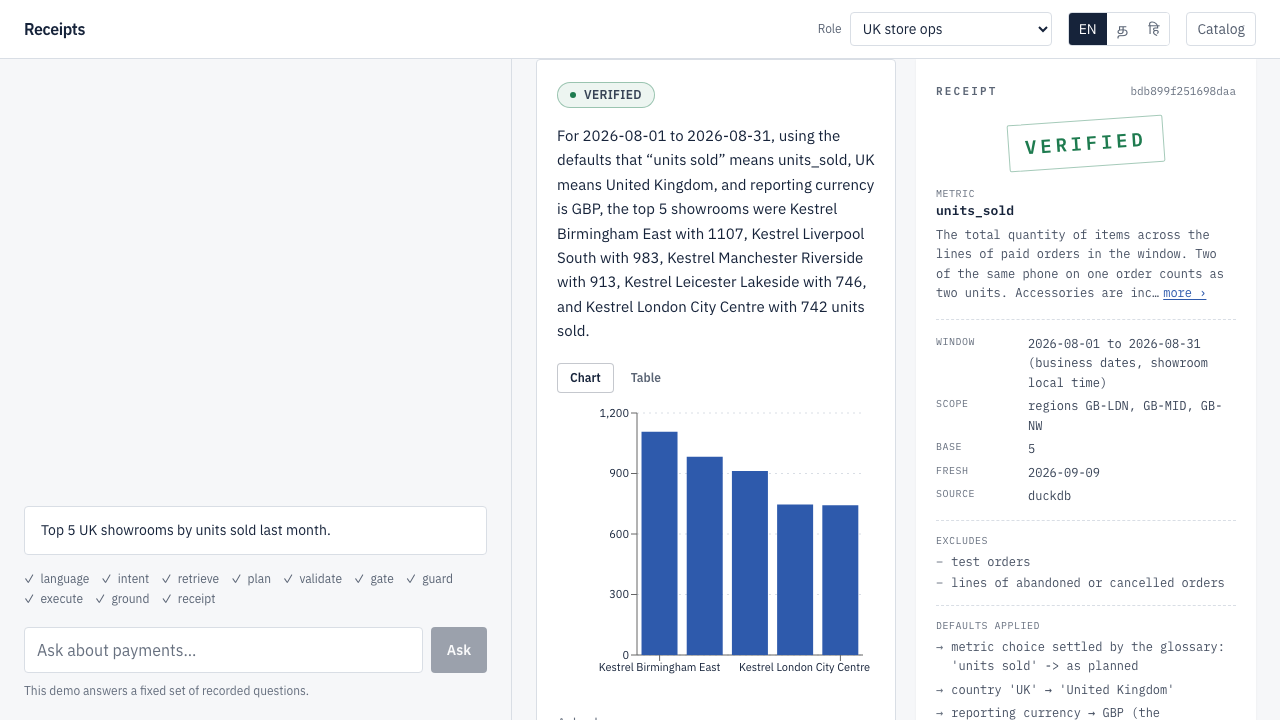
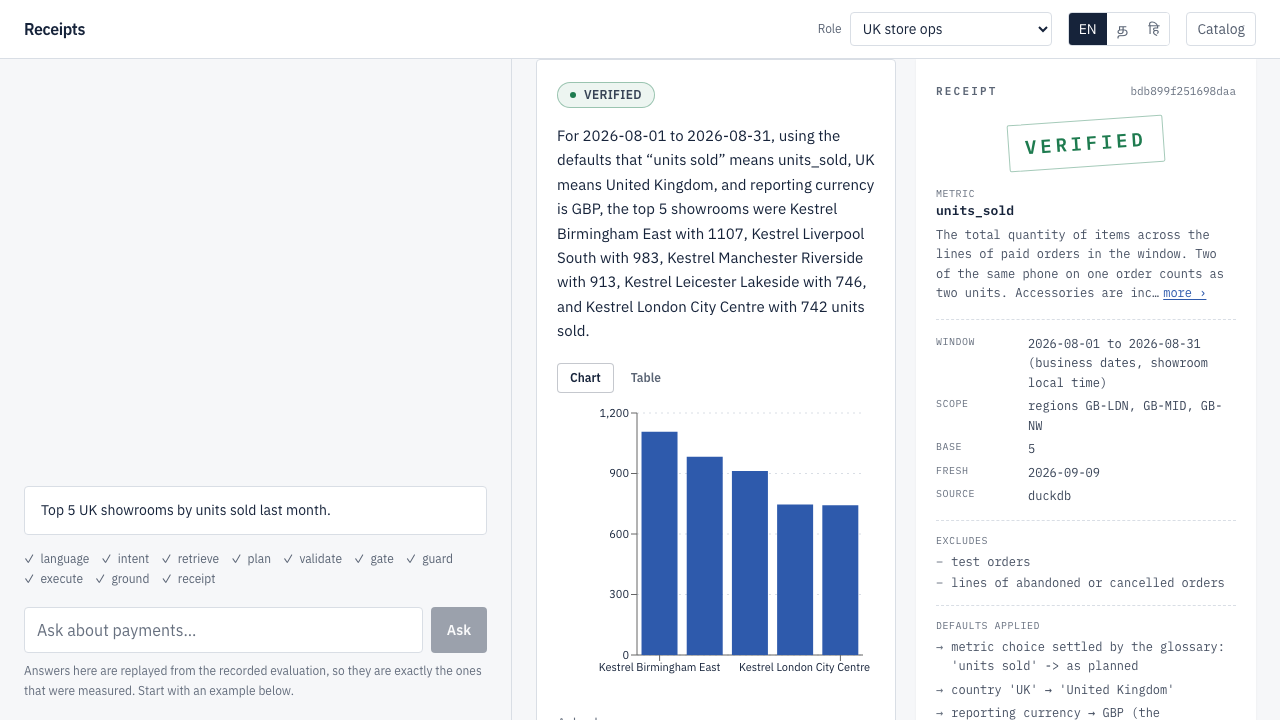
fix(M20): the error named a way out and then hid it
Three demo changes, and the third turned out to be a real defect rather than a
copy edit.

The 503 for an unrecorded question said "Try one of the examples" — and the
examples are an empty state that disappears once a question has been asked. So
a first-time visitor who typed their own question before noticing the
suggestions reached a dead end that **named its own exit and withheld it**. The
one thing the error told them to do was the one thing not on screen.

Examples now come back on a failure. The way out is always visible wherever a
dead end is reachable.

The other two:

- The replay note leads with what is true rather than with what is missing:
  "Answers here are replayed from the recorded evaluation, so they are exactly
  the ones that were measured." That is the project's argument, not an apology.
- The 503 opens "Nothing is broken" and says why, then points at the examples
  and at the catalog — which runs any metric with no model in the path at all.

The note is split in two, because "Start with an example below" is only true
while examples are below. Shown with them, gone without them: a note pointing
below itself at nothing is a small lie about its own page.

Guarded end to end: type an unrecorded question, assert the error explains
itself, assert the examples are visible, click one, assert a VERIFIED answer
with a receipt. Reverting the one-line fix makes it fail. The screenshot spec
now waits out the rate limiter too — it runs after the journeys, and a
[…]

Changed region(s): [[0.0, 0.7028, 0.4062, 0.9778]]

diff --git a/web/src/i18n.ts b/web/src/i18n.ts
@@ -14,6 +14,7 @@ export interface Copy {
   readonly emptyTitle: string;
   readonly emptyBody: string;
   readonly recordedNote: string;
+  readonly startWithExample: string;
   readonly thinking: string;
   readonly chart: string;
   readonly table: string;
@@ -62,7 +63,8 @@ const EN: Copy = {
   emptyTitle: "Ask a question about payments.",
   emptyBody: "Every answer comes with a receipt saying where the number came from.",
   recordedNote:
-    "This demo answers a fixed set of recorded questions.",
+    "Answers here are replayed from the recorded evaluation, so they are exactly the ones that were measured.",
+  startWithExample: "Start with an example below.",
   thinking: "Working",
   chart: "Chart",
   table: "Table",
@@ -100,7 +102,7 @@ const EN: Copy = {
   },
   errors: {
     MODEL_UNAVAILABLE:
-      "This demo answers a fixed set of recorded questions, and this one is not among them. Try one of the examples, or open the catalog to run a metric directly.",
+      "Nothing is broken — this question just was not part of the recorded evaluation, so there is no recorded answer to replay. The examples below are, and every one of them works. You can also open the catalog to run any metric directly, with no model involved at all.",
     RATE_LIMITED: "That is more questions than the demo allows in a minute.",
     DB_TIMEOUT: "The warehouse took too long. Ask again, or narrow the window.",
     DB_UNAVAILABLE: "The warehouse is not answering. Nothing was run.",
@@ -131,7 +133,8 @@ const TA: Copy = {
   emptyTitle: "Payments பற்றி ஒரு கேள்வி கேளுங்கள்.",
   emptyBody: "ஒவ்வொரு பதிலுடனும், அந்த எண் எங்கிருந்து வந்தது என்று சொல்லும் ஒரு receipt வரும்.",
   recordedNote:
-    "இந்த demo, பதிவு செய்யப்பட்ட குறிப்பிட்ட கேள்விகளுக்கு மட்டுமே பதிலளிக்கும்.",
+    "இங்குள்ள பதில்கள் பதிவு செய்யப்பட்ட மதிப்பீட்டிலிருந்து replay செய்யப்படுகின்றன — அளவிடப்பட்ட அதே பதில்கள்.",
+  startWithExample: "கீழே உள்ள எடுத்துக்காட்டு ஒன்றில் தொடங்குங்கள்.",
   thinking: "வேலை நடக்கிறது",
   chart: "விளக்கப்படம்",
   table: "அட்டவணை",
@@ -180,7 +183,8 @@ const HI: Copy = {
   emptyTitle: "भुगतान के बारे में एक सवाल पूछें।",
   emptyBody: "हर जवाब के साथ एक receipt आती है जो बताती है कि यह संख्या कहाँ से आई।",
   recordedNote:
-    "यह demo रिकॉर्ड किए गए सवालों के एक निश्चित सेट का ही जवाब देता है।",
+    "यहाँ के जवाब रिकॉर्ड किए गए मूल्यांकन से replay होते हैं — वही जवाब जो मापे गए थे।",
+  startWithExample: "नीचे दिए किसी उदाहरण से शुरू करें।",
   thinking: "काम चल रहा है",
   chart: "चार्ट",
   table: "तालिका",

diff --git a/web/e2e/journeys.spec.ts b/web/e2e/journeys.spec.ts
@@ -159,6 +159,60 @@ test.describe("PDD §8.3", () => {
   });
 });
 
+test.describe("a first-time visitor is never at a dead end", () => {
+  test("an unrecorded question explains itself and the way out is on screen", async ({
+    page,
+  }) => {
+    await open(page, "rm_tamil_nadu");
+
+    // Exactly what a reviewer does: type their own question before noticing
+    // the examples. Nothing recorded this, so it cannot be answered.
+    await page.getByTestId("question-input").fill("what is the airspeed of a swallow");
+    await page.getByTestId("ask-button").click();
+
+    const failure = page.getByTestId("answer-error");
+    await expect(failure).toBeVisible({ timeout: 40_000 });
+    await expect(failure).toHaveAttribute("data-code", "MODEL_UNAVAILABLE");
+
+    // It says nothing is broken, and says why.
+    await expect(failure).toContainText("Nothing is broken");
+    await expect(failure).toContainText("recorded evaluation");
+
+    // And the thing it tells them to do is ON SCREEN. Before this, the copy
+    // said "try one of the examples" while the examples were hidden.
+    const examples = page.getByTestId("example-question");
+    await expect(examples.first()).toBeVisible();
+    expect(await examples.count()).toBeGreaterThanOrEqual(3);
+
+    // Clicking one gets a real answer with a receipt: the dead end has an exit
+    // and the exit works.
+    await examples.first().click();
+    await expect(page.getByTestId("answer-canvas")).toHaveAttribute("data-status", "VERIFIED", {
+      timeout: 40_000,
+    });
+    await expect(page.getByTestId("receipt-card")).toBeVisible();
+  });
+
+  test("the replay note is visible before anything is typed", async ({ page }) => {
+    await open(page, "rm_tamil_nadu");
+    const note = page.getByTestId("recorded-note");
+    await expect(note).toBeVisible();
+    // It leads with what IS true rather than with what is missing.
+    await expect(note).toContainText("replayed from the recorded evaluation");
+    await expect(note).toContainText("Start with an example");
+    // And the examples it names are there to start with.
+    expect(await page.getByTestId("example-question").count()).toBeGreaterThanOrEqual(3);
+
+    // Once an answer is up the examples go, and so does the instruction to use
+    // them -- the note must not point below itself at nothing.
+    await page.getByTestId("example-question").first().click();
+    await expect(page.getByTestId("answer-canvas")).toBeVisible({ timeout: 40_000 });
+    await expect(page.getByTestId("example-question")).toHaveCount(0);
+    await expect(note).toContainText("replayed from the recorded evaluation");
+    await expect(note).not.toContainText("Start with an example");
+  });
+});
+
 test.describe("quality floor (SDD §22)", () => {
   test("axe-core finds no serious violation with an answer rendered", async ({ page }) => {
     await open(page, "rm_tamil_nadu");

diff --git a/web/src/components/ChatPane.tsx b/web/src/components/ChatPane.tsx
@@ -14,6 +14,7 @@ export function ChatPane({
   copy,
   onAsk,
   trace,
+  stuck,
 }: {
   asked: string[];
   examples: readonly string[];
@@ -23,7 +24,11 @@ export function ChatPane({
   /** The step trace, rendered between the transcript and the input -- beside
    *  the question it describes rather than above it or below the examples. */
   trace: React.ReactNode;
+  /** True when the last attempt failed. The examples come back, because the
+   *  error copy tells the reader to try one and they were not on screen. */
+  stuck: boolean;
 }) {
+  const showExamples = asked.length === 0 || stuck;
   const [draft, setDraft] = useState("");
 
   return (
@@ -80,16 +85,26 @@ export function ChatPane({
             {copy.ask}
           </button>
         </div>
+        {/* The explanation is always true, so it is always shown. The
+            instruction is only true while the examples are on screen, so it is
+            only shown then -- a note telling the reader to start with an
+            example below, above nothing, is a small lie about its own page. */}
         <p className="mt-2 text-xs leading-relaxed text-ink/65" data-testid="recorded-note">
           {copy.recordedNote}
+          {showExamples ? ` ${copy.startWithExample}` : ""}
         </p>
       </form>
 
-      {/* The examples are an EMPTY STATE, so they go once a question has been
-          asked. Leaving them up pushed the answer below three buttons and the
-          step trace at 375px -- the asker had to scroll past the suggestions to
-          reach the thing they asked for. */}
-      {asked.length === 0 ? (
+      {/* Examples are an empty state, so they go once an answer is on screen --
+          leaving them up pushed the answer below three buttons and the trace at
+          375px. But they come BACK on a failure.
+          
+          Without that, the 503 copy said "try one of the examples" while the
+          examples were hidden: the one thing the error told the reader to do was
+          the one thing they could not see. A first-time visitor who typed their
+          own question before clicking an example reached a dead end that named
+          its own way out and then withheld it. */}
+      {showExamples ? (
         <ul className="mt-3 space-y-1.5" data-testid="examples">
           {examples.map((question) => (
             <li key={question}>

diff --git a/web/e2e/screens.spec.ts b/web/e2e/screens.spec.ts
@@ -30,9 +30,20 @@ for (const shot of SHOTS) {
   test(`screenshot ${shot.name}`, async ({ page }, info) => {
     const width = info.project.name === "mobile" ? 375 : 1280;
     await page.goto(`/?role=${shot.role}`);
-    await page.getByTestId("question-input").fill(shot.question);
-    await page.getByTestId("ask-button").click();
-    await expect(page.getByTestId("answer-canvas")).toBeVisible({ timeout: 40_000 });
+    // The same rate-limit wait the journeys use. This spec runs after them, so
+    // by the time it starts the demo's 20-a-minute allowance is often spent --
+    // and a screenshot of an error page is a screenshot nobody wants committed.
+    for (let attempt = 0; attempt < 3; attempt += 1) {
+      await page.getByTestId("question-input").fill(shot.question);
+      await page.getByTestId("ask-button").click();
+      const canvas = page.getByTestId("answer-canvas");
+      const failure = page.getByTestId("answer-error");
+      await expect(canvas.or(failure)).toBeVisible({ timeout: 40_000 });
+      if ((await failure.count()) === 0) break;
+      expect(await failure.getAttribute("data-code")).toBe("RATE_LIMITED");
+      await page.waitForTimeout(61_000 - (Date.now() % 60_000));
+    }
+    await expect(page.getByTestId("answer-canvas")).toBeVisible();
     await expect(page.getByTestId("receipt-card")).toBeVisible();
     await page.screenshot({
       path: `../docs/screens/ask-${width}-${shot.name}.png`,

diff --git a/web/src/App.tsx b/web/src/App.tsx
@@ -200,6 +200,7 @@ export function App() {
             copy={copy}
             onAsk={(question) => run(question, null)}
             trace={<StepTrace steps={steps} running={busy} copy={copy} />}
+            stuck={failure !== null}
           />
         </section>
 
